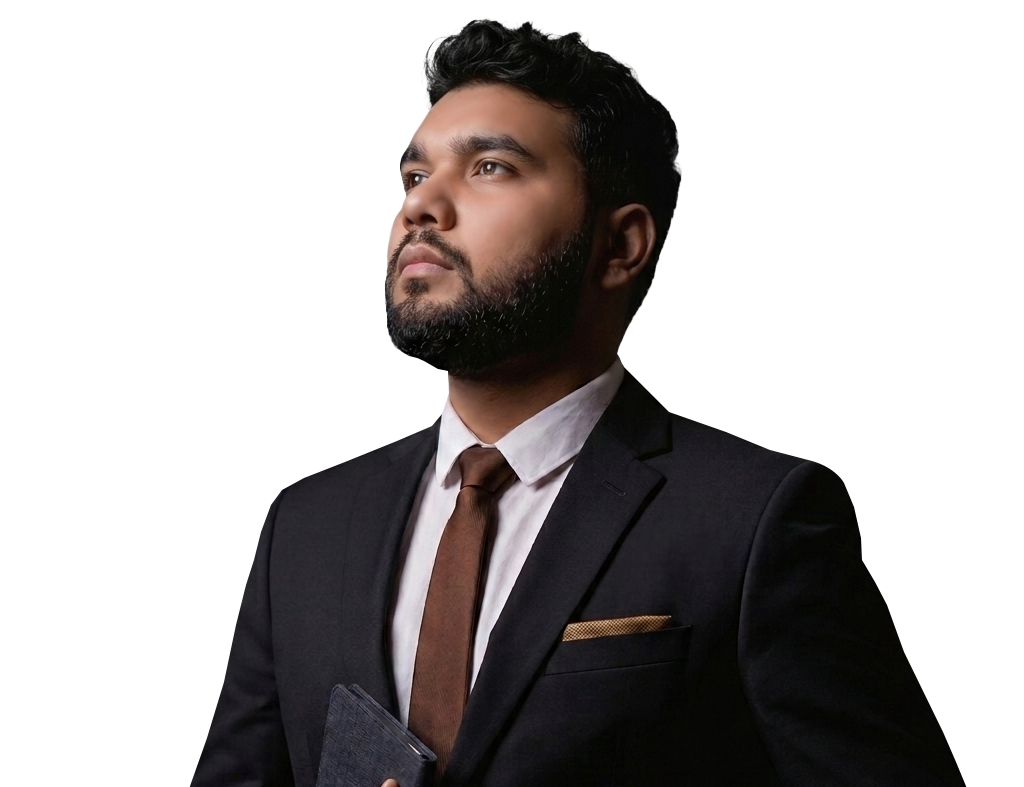
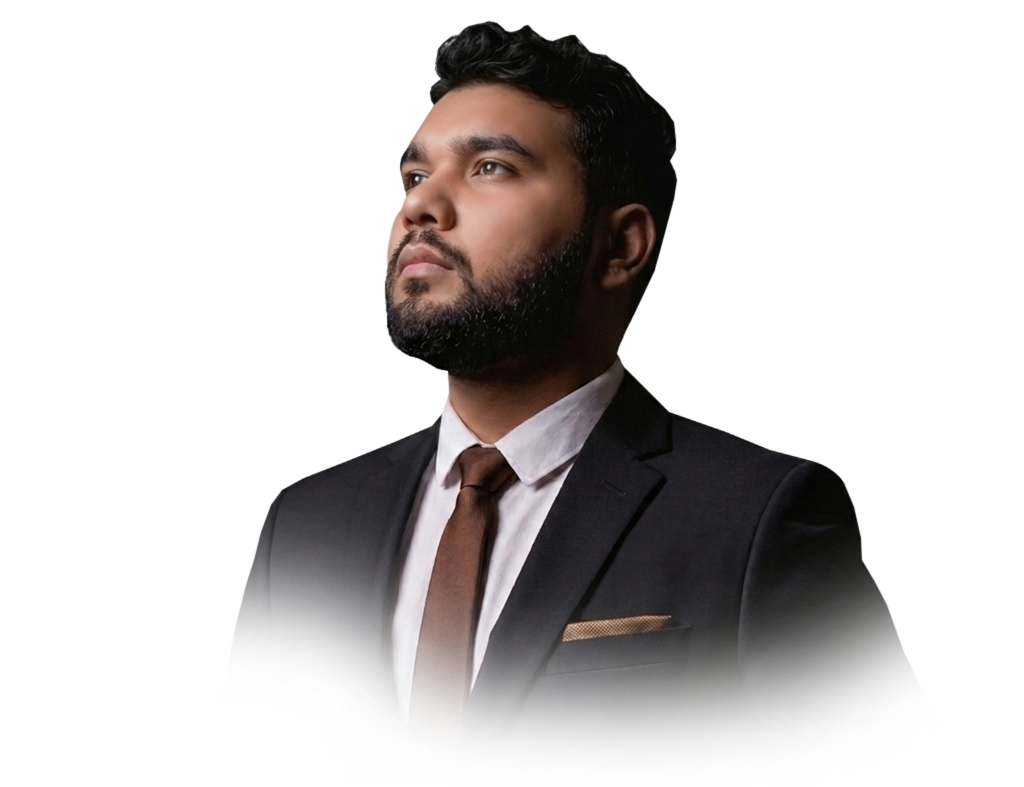
hero update: removed shadow, adjusted arch padding

diff --git a/portfolio/src/components/Testimonials.jsx b/portfolio/src/components/Testimonials.jsx
@@ -7,8 +7,21 @@ const Testimonials = () => {
     const { t, language } = useLanguage();
 
     const [currentIndex, setCurrentIndex] = useState(0);
-    const itemsToShow = 4;
-    const maxIndex = reviewsData.length - itemsToShow;
+    const [itemsToShow, setItemsToShow] = useState(4);
+
+    React.useEffect(() => {
+        const handleResize = () => {
+            if (window.innerWidth < 768) setItemsToShow(1);
+            else if (window.innerWidth < 1024) setItemsToShow(2);
+            else if (window.innerWidth < 1200) setItemsToShow(3);
+            else setItemsToShow(4);
+        };
+        handleResize();
+        window.addEventListener('resize', handleResize);
+        return () => window.removeEventListener('resize', handleResize);
+    }, []);
+
+    const maxIndex = Math.max(0, reviewsData.length - itemsToShow);
 
     const nextSlide = () => {
         setCurrentIndex((prev) => (prev >= maxIndex ? 0 : prev + 1));
@@ -94,41 +107,26 @@ const Testimonials = () => {
 
             <style>{`
                 @media (max-width: 1200px) {
-                    /* Container for the slider */
                     div[style*="transform: translateX"] {
-                        transform: none !important;
-                        display: flex !important;
-                        overflow-x: auto !important;
-                        scroll-snap-type: x mandatory !important;
-                        padding-bottom: 2rem !important;
-                        scrollbar-width: thin;
-                        scrollbar-color: var(--accent-purple) transparent;
-                        -ms-overflow-style: auto;
-                        gap: 1.5rem !important;
-                        padding: 0 1.5rem !important;
-                        cursor: grab;
+                        gap: 0 !important;
                     }
-                    div[style*="transform: translateX"]::-webkit-scrollbar {
-                        display: block;
-                        height: 4px;
-                    }
-                    div[style*="transform: translateX"]::-webkit-scrollbar-thumb {
-                        background: var(--accent-purple);
-                        border-radius: 10px;
-                    }
-                    /* Individual Card wrapper */
                     div[style*="min-width: 25%"] {
-                        min-width: 85% !important; /* Allow partial next card visibility */
-                        scroll-snap-align: center !important;
-                        padding: 0 !important;
-                        flex-shrink: 0 !important;
+                        min-width: 100% !important; /* One card at a time on mobile */
+                        padding: 0 0.5rem !important;
                     }
-                    /* Move / Hide overlapping buttons */
+                    /* Ensure buttons are visible but scaled */
                     button[onClick*="Slide"] { 
-                        display: none !important; 
+                        width: 40px !important;
+                        height: 40px !important;
+                        top: auto !important;
+                        bottom: -15px !important;
+                        transform: translateY(100%) !important;
                     }
+                    button[onClick*="prevSlide"] { left: 35% !important; }
+                    button[onClick*="nextSlide"] { right: 35% !important; left: auto !important; }
+                    
                     #testimonials h2 { font-size: 1.85rem !important; }
-                    #testimonials { padding: 4rem 0 !important; }
+                    #testimonials { padding: 4rem 0 !important; padding-bottom: 7rem !important; }
                     .bento-card { margin: 0 !important; border-radius: 24px !important; }
                 }
             `}</style>

diff --git a/portfolio/src/components/Hero.jsx b/portfolio/src/components/Hero.jsx
@@ -55,12 +55,12 @@ const Hero = () => {
                         width: 'clamp(300px, 50vw, 550px)',
                         height: 'clamp(400px, 65vw, 700px)',
                         borderRadius: '300px 300px 32px 32px',
-                        boxShadow: '0 30px 70px rgba(99, 102, 241, 0.2)',
                         border: '1px solid rgba(255, 255, 255, 0.1)',
                         display: 'flex',
                         alignItems: 'flex-end',
                         justifyContent: 'center',
-                        overflow: 'visible'
+                        overflow: 'visible',
+                        paddingBottom: '1px' // Elevates the image 1px from the bottom edge
                     }}>
                         <img
                             src={authorImg}
@@ -71,7 +71,6 @@ const Hero = () => {
                                 maxWidth: 'none',
                                 marginBottom: '0',
                                 display: 'block',
-                                filter: 'drop-shadow(0 20px 40px rgba(0,0,0,0.2))',
                                 position: 'relative',
                                 zIndex: 2
                             }}
@@ -81,7 +80,7 @@ const Hero = () => {
                         <div className="exp-badge" style={{
                             position: 'absolute',
                             bottom: '10%',
-                            right: '-15%',
+                            right: '-25%',
                             backgroundColor: 'black',
                             color: 'white',
                             padding: '1.75rem',
@@ -114,12 +113,15 @@ const Hero = () => {
                         margin-top: 2rem !important;
                     }
                     .exp-badge {
-                        right: -10px !important;
-                        bottom: 0px !important;
-                        padding: 1rem !important;
-                        min-width: 140px !important;
+                        right: 50% !important;
+                        transform: translateX(50%) !important;
+                        bottom: -30px !important;
+                        padding: 1.25rem !important;
+                        min-width: 180px !important;
+                        text-align: center !important;
                     }
-                    .exp-badge h3 { font-size: 1.25rem !important; }
+                    .exp-badge p { text-align: center !important; }
+                    .exp-badge h3 { font-size: 1.35rem !important; }
                 }
                 @media (max-width: 480px) {
                     .arch-bg { 
@@ -127,12 +129,7 @@ const Hero = () => {
                         height: 320px !important; 
                     }
                     .exp-badge {
-                        right: 50% !important;
-                        transform: translateX(50%) !important;
-                        bottom: -20px !important;
-                        padding: 1rem !important;
-                        min-width: 160px !important;
-                        text-align: center !important;
+                        bottom: -40px !important;
                     }
                 }
             `}</style>

diff --git a/portfolio/src/components/About.jsx b/portfolio/src/components/About.jsx
@@ -29,8 +29,8 @@ const About = () => {
                     </div>
 
                     {/* Image 1 (Primary) */}
-                    <div className="bento-card bento-img-card" style={{ gridColumn: 'span 4', gridRow: 'span 2', padding: 0, overflow: 'hidden', position: 'relative' }}>
-                        <img src={my_story_1} alt={t('about.tag')} style={{ width: '100%', height: '100%', objectFit: 'cover', display: 'block' }} />
+                    <div className="bento-card bento-img-card" style={{ gridColumn: 'span 4', gridRow: 'span 2', padding: 0, overflow: 'hidden', display: 'flex', flexDirection: 'column' }}>
+                        <img src={my_story_1} alt={t('about.tag')} style={{ width: '100%', height: '100%', flexGrow: 1, objectFit: 'cover', display: 'block' }} />
                     </div>
 
                     {/* Experience Highlights */}
@@ -59,13 +59,13 @@ const About = () => {
                     </div>
 
                     {/* Image 2 */}
-                    <div className="bento-card bento-img-card" style={{ gridColumn: 'span 4', gridRow: 'span 2', padding: 0, overflow: 'hidden', position: 'relative' }}>
-                        <img src={my_story_2} alt={t('about.tag')} style={{ width: '100%', height: '100%', objectFit: 'cover', display: 'block' }} />
+                    <div className="bento-card bento-img-card" style={{ gridColumn: 'span 4', gridRow: 'span 2', padding: 0, overflow: 'hidden', display: 'flex', flexDirection: 'column' }}>
+                        <img src={my_story_2} alt={t('about.tag')} style={{ width: '100%', height: '100%', flexGrow: 1, objectFit: 'cover', display: 'block' }} />
                     </div>
 
                     {/* Image 3 */}
-                    <div className="bento-card bento-img-card" style={{ gridColumn: 'span 4', gridRow: 'span 2', padding: 0, overflow: 'hidden', position: 'relative' }}>
-                        <img src={my_story_3} alt={t('about.tag')} style={{ width: '100%', height: '100%', objectFit: 'cover', display: 'block' }} />
+                    <div className="bento-card bento-img-card" style={{ gridColumn: 'span 4', gridRow: 'span 2', padding: 0, overflow: 'hidden', display: 'flex', flexDirection: 'column' }}>
+                        <img src={my_story_3} alt={t('about.tag')} style={{ width: '100%', height: '100%', flexGrow: 1, objectFit: 'cover', display: 'block' }} />
                     </div>
 
                     {/* Mission Card */}

diff --git a/portfolio/src/index.css b/portfolio/src/index.css
@@ -21,8 +21,8 @@
 
   --radius-lg: 32px;
   --radius-md: 16px;
-  --shadow-sm: 0 4px 20px rgba(0, 0, 0, 0.03);
-  --shadow-md: 0 10px 40px rgba(0, 0, 0, 0.05);
+  --shadow-sm: 0 10px 30px rgba(0, 0, 0, 0.08);
+  --shadow-md: 0 25px 50px rgba(0, 0, 0, 0.15);
 
   font-family: var(--font-primary);
   line-height: 1.6;
